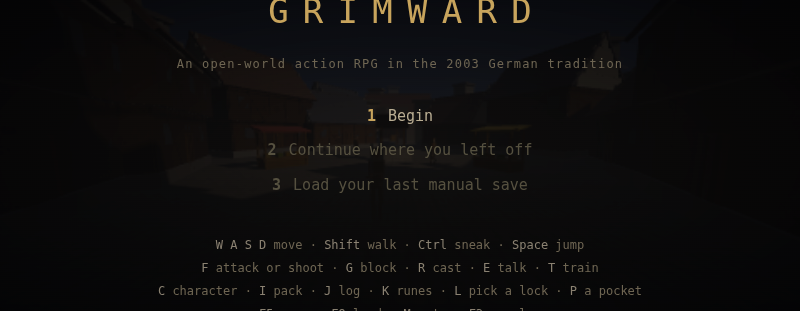
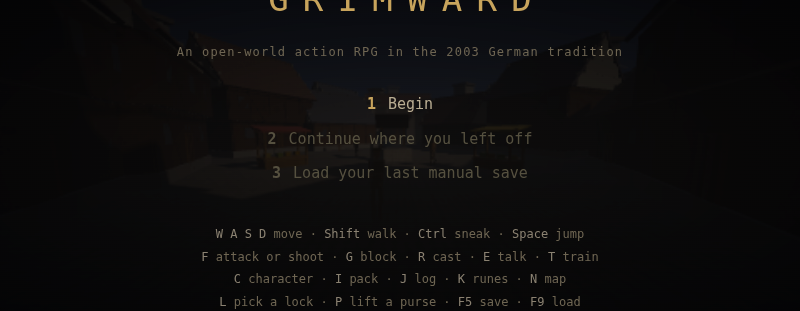
A map, drawn from the world rather than of it
Three hundred and forty metres across with ten places on it and no way to see
where any of them are. There is now, and it is built the way everything else
here is: as SVG generated from the region's own `places` and `roads` — the same
data the heightfield carves the ground from — so it cannot disagree with the
world it describes. There is no map asset and no authoring step. Move a farm
and the map moves.

Places you have not been to are not on it. Standing inside a place's own pad is
what finds it; walking past at sixty metres is not. That is the one rule that
makes a map worth opening twice, and it is why what you have found is world
state that gets saved — an island that un-discovers itself on reload is worse
than no map at all.

Him too, drawn as a wedge rather than a dot, because which way you are facing
is half of what a map is for.

Two tests, and the second is the useful one: standing on every place in every
region and checking it registers as found. A place that cannot be entered can
never be discovered, so it would sit on the map for ever as a name nobody can
reach — and nothing about that is visible from reading the coordinates.

Also: the SVG is sized by the smaller of its two constraints. The first version
was width-driven inside a panel that scrolls, and cut the farms and the
player's own arrow off the bottom.

148 checks, 6/6 golden paths, 86 browser checks, 15 framings.

diff --git a/src/main.js b/src/main.js
@@ -186,6 +186,7 @@ async function boot() {
       items: world.items().map((i) => `${i.id}×${i.n}${i.equipped ? '*' : ''}`),
       weapon: world.inventory.weapon, armour: world.inventory.armour,
       book: tab,
+      seen: [...world.seen],
       mana: world.caster.mana, manaMax: world.caster.max,
       bow: world.bow(),
       chest: (() => {
@@ -464,6 +465,78 @@ async function boot() {
     bodyEl.replaceChildren(...out);
   }
 
+  /**
+   * The map.
+   *
+   * Drawn as SVG from the region's own `places` and `roads` — the same data the
+   * heightfield carves the ground from — so it can never disagree with the
+   * world it describes. There is no separate map asset and there is no map
+   * authoring step: move a farm and the map moves.
+   *
+   * Places you have not been to are not on it. That is the one rule that makes
+   * a map worth opening twice, and it is why `seen` is world state rather than
+   * a drawing option.
+   */
+  function renderMap() {
+    actions = [];
+    const T = world.terrain;
+    const size = T.size / 2;
+    const NS = 'http://www.w3.org/2000/svg';
+    const svg = document.createElementNS(NS, 'svg');
+    const span = 200;                     // metres shown either side of the origin
+    svg.setAttribute('viewBox', `${-span} ${-span} ${span * 2} ${span * 2}`);
+    svg.setAttribute('class', 'map');
+
+    const node = (kind, attrs) => {
+      const n = document.createElementNS(NS, kind);
+      for (const [k, v] of Object.entries(attrs)) n.setAttribute(k, String(v));
+      return n;
+    };
+
+    // The sea, or the valley floor: one rounded rectangle under everything.
+    svg.append(node('rect', {
+      x: -span, y: -span, width: span * 2, height: span * 2,
+      rx: 14, class: T.water ? 'map-sea' : 'map-rock',
+    }));
+    svg.append(node('circle', { cx: 0, cy: 0, r: size * 0.74, class: 'map-land' }));
+
+    // Roads first, so places sit on top of them.
+    for (const road of T.roads) {
+      const d = road.points.map((p, i) => `${i ? 'L' : 'M'}${p[0]} ${p[1]}`).join(' ');
+      svg.append(node('path', { d, class: 'map-road' }));
+    }
+
+    // Places, but only the ones he has actually stood near.
+    for (const [name, p] of Object.entries(T.places)) {
+      if (!world.seen.has(name)) continue;
+      svg.append(node('circle', { cx: p.at[0], cy: p.at[1], r: Math.max(5, p.r * 0.32), class: `map-place map-${p.kind}` }));
+      const label = node('text', { x: p.at[0], y: p.at[1] - Math.max(9, p.r * 0.32 + 5), class: 'map-label' });
+      label.textContent = name.replace(/_/g, ' ');
+      svg.append(label);
+    }
+
+    // Him. A wedge rather than a dot, because which way you are facing is half
+    // of what a map is for.
+    const px = world.player.pos[0], pz = world.player.pos[2];
+    const yaw = world.player.yaw;
+    const tip = [px + Math.sin(yaw) * 13, pz + Math.cos(yaw) * 13];
+    const l = [px + Math.sin(yaw + 2.5) * 8, pz + Math.cos(yaw + 2.5) * 8];
+    const r2 = [px + Math.sin(yaw - 2.5) * 8, pz + Math.cos(yaw - 2.5) * 8];
+    svg.append(node('path', {
+      d: `M${tip[0]} ${tip[1]} L${l[0]} ${l[1]} L${px} ${pz} L${r2[0]} ${r2[1]} Z`,
+      class: 'map-you',
+    }));
+
+    const out = [el('h3', null, `${world.regionTitle}  —  ${world.seen.size} places found`)];
+    out.push(svg);
+    const dl = el('dl');
+    dl.append(el('dt', null, 'You are at'), el('dd', null, `${px.toFixed(0)}, ${pz.toFixed(0)}`));
+    dl.append(el('dt', null, 'Day'), el('dd', null, `${world.clock.day}, ${world.clock.hhmm}`));
+    out.push(dl);
+    hintEl.textContent = 'Places appear once you have been near them · C/I/J/K/N switch · Esc closes';
+    bodyEl.replaceChildren(...out);
+  }
+
   function renderLog() {
     const rows = world.questLog();
     actions = [];
@@ -497,7 +570,7 @@ async function boot() {
     for (const b of tabsEl.querySelectorAll('button')) {
       b.setAttribute('aria-selected', String(b.dataset.tab === tab));
     }
-    ({ sheet: renderSheet, pack: renderPack, log: renderLog, runes: renderRunes })[tab]();
+    ({ sheet: renderSheet, pack: renderPack, log: renderLog, runes: renderRunes, map: renderMap })[tab]();
   }
   const openBook = (which) => { tab = tab === which ? null : which; renderBook(); };
   api.book = { open: openBook, get tab() { return tab; }, render: renderBook };
@@ -529,6 +602,7 @@ async function boot() {
       if (e.code === 'KeyI') { openBook('pack'); return; }
       if (e.code === 'KeyJ') { openBook('log'); return; }
       if (e.code === 'KeyK') { openBook('runes'); return; }
+      if (e.code === 'KeyN') { openBook('map'); return; }
       const n = Number(e.key);
       if (n >= 1 && n <= 9 && actions[n - 1]) {
         const r = actions[n - 1].do();
@@ -563,6 +637,7 @@ async function boot() {
     if (e.code === 'KeyI') { openBook('pack'); return; }
     if (e.code === 'KeyJ') { openBook('log'); return; }
     if (e.code === 'KeyK') { openBook('runes'); return; }
+    if (e.code === 'KeyN') { openBook('map'); return; }
     if (e.code === 'KeyM') { log(sound.toggle() ? 'muted' : 'sound on'); return; }
     if (e.code === 'F5') { e.preventDefault(); save('manual'); }
     if (e.code === 'F9') { e.preventDefault(); load('manual'); }

diff --git a/tools/test.js b/tools/test.js
@@ -1228,6 +1228,49 @@ check('a bandit is a real fight and the curve is where the design says', () => {
   assert(ready.won, `a level-${ready.level} character could not clear the lighthouse — it is a wall`);
 });
 
+// --- the map ------------------------------------------------------------------
+
+check('the map is drawn from the world, and shows only what you have found', () => {
+  const w = createWorld({ seed: 1, props: 10, beasts: 0, foes: false });
+  w.tick(1 / 60);
+  // He starts in the city, so the city is on it and nothing else is.
+  assert(w.seen.has('halden'), 'he cannot see the city he is standing in');
+  eq(w.seen.size, 1, `a new character has already found ${[...w.seen].join(', ')}`);
+
+  // Standing *inside* a place is what finds it. Walking past at two hundred
+  // metres is not, which is the rule that makes a map worth opening twice.
+  const far = w.places.lighthouse.at;
+  w.player.pos[0] = far[0] + 60; w.player.pos[2] = far[1];
+  w.tick(1 / 60);
+  assert(!w.seen.has('lighthouse'), 'sixty metres away counted as finding it');
+
+  w.player.pos[0] = far[0]; w.player.pos[2] = far[1];
+  w.tick(1 / 60);
+  assert(w.seen.has('lighthouse'), 'standing on it did not');
+
+  // And it survives a reload, or the island un-discovers itself.
+  const data = w.snapshot();
+  assert(data.seen.includes('lighthouse'), 'the save forgot what he had found');
+  const w2 = createWorld({ seed: 1, props: 10, beasts: 0, foes: false });
+  w2.restore(data);
+  assert(w2.seen.has('lighthouse'), 'the map went blank on load');
+});
+
+check('every place on the map can actually be walked to', () => {
+  // A place that cannot be entered can never be discovered, so it would sit on
+  // the map as a name nobody can reach. Standing on each one and ticking is the
+  // cheapest proof that all of them are real ground.
+  for (const region of Object.keys(REGIONS)) {
+    const w = createWorld({ seed: 2, region, props: 20, beasts: false, foes: false });
+    for (const [name, p] of Object.entries(w.places)) {
+      w.player.pos[0] = p.at[0]; w.player.pos[2] = p.at[1];
+      w.player.pos[1] = w.terrain.heightAt(p.at[0], p.at[1]);
+      for (let i = 0; i < 4; i++) w.tick(1 / 60);
+      assert(w.seen.has(name), `${region}/${name} cannot be stood in — it is on the map and unreachable`);
+    }
+  }
+});
+
 // --- the day ------------------------------------------------------------------
 
 check('a routine is a clock, not a script', () => {

diff --git a/src/world/world.js b/src/world/world.js
@@ -746,6 +746,7 @@ export function createWorld(opts = {}) {
   // face it hit, so it wants a velocity. A person being placed has none, and
   // giving every townsperson a velocity vector they never use would be worse
   // than lending them a zeroed one for the length of this loop.
+  const seen = new Set();
   const placing = { pos: null, vel: new Float32Array(3) };
   for (const p of people) {
     placing.pos = p.pos;
@@ -794,6 +795,10 @@ export function createWorld(opts = {}) {
     seed, terrain, clock, player, camera, props, town, people, beasts, foes, obstacles, ticks: 0,
     character, flags, quests, inventory, chapter: 1, openTrainer: null, openTrader: null, log: [],
     crates, gates, places: terrain.places, city: CITY,
+    // Which places he has actually stood near. The map draws only these, which
+    // is the one rule that makes a map worth opening twice — and it is world
+    // state rather than a drawing option, because it has to be saved.
+    seen,
     caster, archer, bolts, chests,
     // Death. `dead` is set the tick the player's fighter enters DEAD, and
     // `deadFor` counts up from there so the caller can hold the screen for a
@@ -1739,6 +1744,18 @@ export function createWorld(opts = {}) {
       }
       if (intent.steal && !world.stealHeld) world.pickPocket();
       world.stealHeld = !!intent.steal;
+
+      // Discovery. Standing inside a place's own pad is what puts it on the
+      // map; walking past at two hundred metres is not. Cheap enough to do
+      // every tick because a region has fewer than a dozen places in it.
+      for (const [name, p] of Object.entries(terrain.places)) {
+        if (seen.has(name)) continue;
+        const rx = p.w || p.r, rz = p.r;
+        if (Math.hypot((player.pos[0] - p.at[0]) / rx, (player.pos[2] - p.at[1]) / rz) < 1.05) {
+          seen.add(name);
+          world.log.push(`Found: ${name.replace(/_/g, ' ')}`);
+        }
+      }
 
       // A lock you walked away from is a lock you have to start again. Kept
       // here rather than in the key handler so that it is true of a bot and of

diff --git a/src/core/save.js b/src/core/save.js
@@ -89,17 +89,20 @@ export function snapshot(world) {
       .map((b) => ({
         i: world.beasts.indexOf(b), hp: b.hp, dead: b.state === 7, pos: [...b.pos],
       })),
-    // Men are saved by the same rule and for the same reason: a lighthouse you
-    // cleared has to stay cleared, or the quest that depends on it un-finishes
-    // itself the moment you reload.
     // Chests you emptied stay empty, which is the only reason a player bothers
     // to remember where one was. Stored by id rather than by index, because a
     // chest is authored by hand and a list of them will be reordered.
     chests: (world.chests || [])
       .filter((c) => c.open || c.emptied)
       .map((c) => ({ id: c.id, open: c.open, emptied: c.emptied })),
+    // What he has found. The map is drawn from it, so losing it on a reload
+    // would un-discover the island.
+    seen: [...(world.seen || [])],
     // Purses already lifted, likewise by id.
     robbed: (world.people || []).filter((p) => p.robbed).map((p) => p.id),
+    // Men are saved by the same rule as beasts and for the same reason: a
+    // lighthouse you cleared has to stay cleared, or the quest that depends on
+    // it un-finishes itself the moment you reload.
     foes: (world.foes || [])
       .filter((m) => m.state === 7 || m.hp < m.maxHp)
       .map((m) => ({
@@ -177,6 +180,10 @@ export function restore(world, data) {
     chest.open = c.open;
     chest.emptied = c.emptied;
     if (chest.open) chest.picked = 1e9;
+  }
+  if (world.seen) {
+    world.seen.clear();
+    for (const name of d.seen || []) world.seen.add(name);
   }
   const robbed = new Set(d.robbed || []);
   for (const p of world.people || []) p.robbed = robbed.has(p.id);

diff --git a/styles.css b/styles.css
@@ -154,3 +154,32 @@ html, body {
 #title-menu li.off b { color: #55503f; }
 #title-keys { color: #6e6552; font-size: 12px; line-height: 1.9; margin-top: 6px; }
 #title-keys b { color: #8a8171; font-weight: 400; }
+
+/* The map. Drawn from the same `places` and `roads` the heightfield carves the
+   ground from, so it cannot disagree with the world it describes. */
+.map {
+  /* Square, and never taller than the panel it lives in. Sized by the smaller
+     of the two constraints so the whole island is on screen: the first version
+     was width-driven and cut the farms and the player's own arrow off the
+     bottom of a panel that scrolls. */
+  width: min(100%, 50vh);
+  aspect-ratio: 1;
+  height: auto;
+  display: block;
+  margin: 0 auto;
+}
+.map-sea { fill: #0d1a24; }
+.map-rock { fill: #131110; }
+.map-land { fill: #1b1810; }
+.map-road { fill: none; stroke: #4a3f2c; stroke-width: 3.2; stroke-linecap: round; stroke-linejoin: round; }
+.map-place { fill: #6e6552; stroke: #0b0a08; stroke-width: 1.5; }
+.map-city { fill: #c8a45c; }
+.map-temple { fill: #a3572f; }
+.map-tower { fill: #6a4a86; }
+.map-pass, .map-keep { fill: #a3392f; }
+.map-mine { fill: #7d7466; }
+.map-label {
+  fill: #8a8171; font-size: 9px; text-anchor: middle;
+  font-family: ui-monospace, Menlo, Consolas, monospace; letter-spacing: 0.04em;
+}
+.map-you { fill: #9ad07a; stroke: #0b0a08; stroke-width: 1.2; }

diff --git a/index.html b/index.html
@@ -29,8 +29,9 @@
   <div id="title-keys">
     <div><b>W A S D</b> move · <b>Shift</b> walk · <b>Ctrl</b> sneak · <b>Space</b> jump</div>
     <div><b>F</b> attack or shoot · <b>G</b> block · <b>R</b> cast · <b>E</b> talk · <b>T</b> train</div>
-    <div><b>C</b> character · <b>I</b> pack · <b>J</b> log · <b>K</b> runes · <b>L</b> pick a lock · <b>P</b> a pocket</div>
-    <div><b>F5</b> save · <b>F9</b> load · <b>M</b> mute · <b>F3</b> overlay</div>
+    <div><b>C</b> character · <b>I</b> pack · <b>J</b> log · <b>K</b> runes · <b>N</b> map</div>
+    <div><b>L</b> pick a lock · <b>P</b> lift a purse · <b>F5</b> save · <b>F9</b> load</div>
+    <div><b>M</b> mute · <b>F3</b> overlay</div>
   </div>
 </div>
 
@@ -73,6 +74,7 @@
     <button data-tab="pack">Pack <b>I</b></button>
     <button data-tab="log">Log <b>J</b></button>
     <button data-tab="runes">Runes <b>K</b></button>
+    <button data-tab="map">Map <b>N</b></button>
   </nav>
   <div id="book-body"></div>
   <p id="book-hint"></p>

diff --git a/docs/WORLD.md b/docs/WORLD.md
@@ -192,6 +192,21 @@ Those numbers are measured, not asserted: the test suite runs the same spacing
 bot the wood is measured with and pins the assertion at ten, because a test
 pinned to a coin flip fails on Tuesdays.
 
+## The map
+
+Drawn as SVG from the region's own `places` and `roads` — the same data the
+heightfield carves the ground from — so it cannot disagree with the world it
+describes. There is no map asset and no map authoring step: move a farm and the
+map moves with it.
+
+Places you have not been to are not on it. Standing *inside* a place's own pad
+is what finds it; walking past at sixty metres is not. That is the one rule
+that makes a map worth opening twice, and it is why what you have found is
+world state that gets saved rather than a drawing option — an island that
+un-discovers itself on reload is worse than no map.
+
+**N** opens it.
+
 ## The day
 
 Everybody in the city stood on the same square metre from the moment the world
